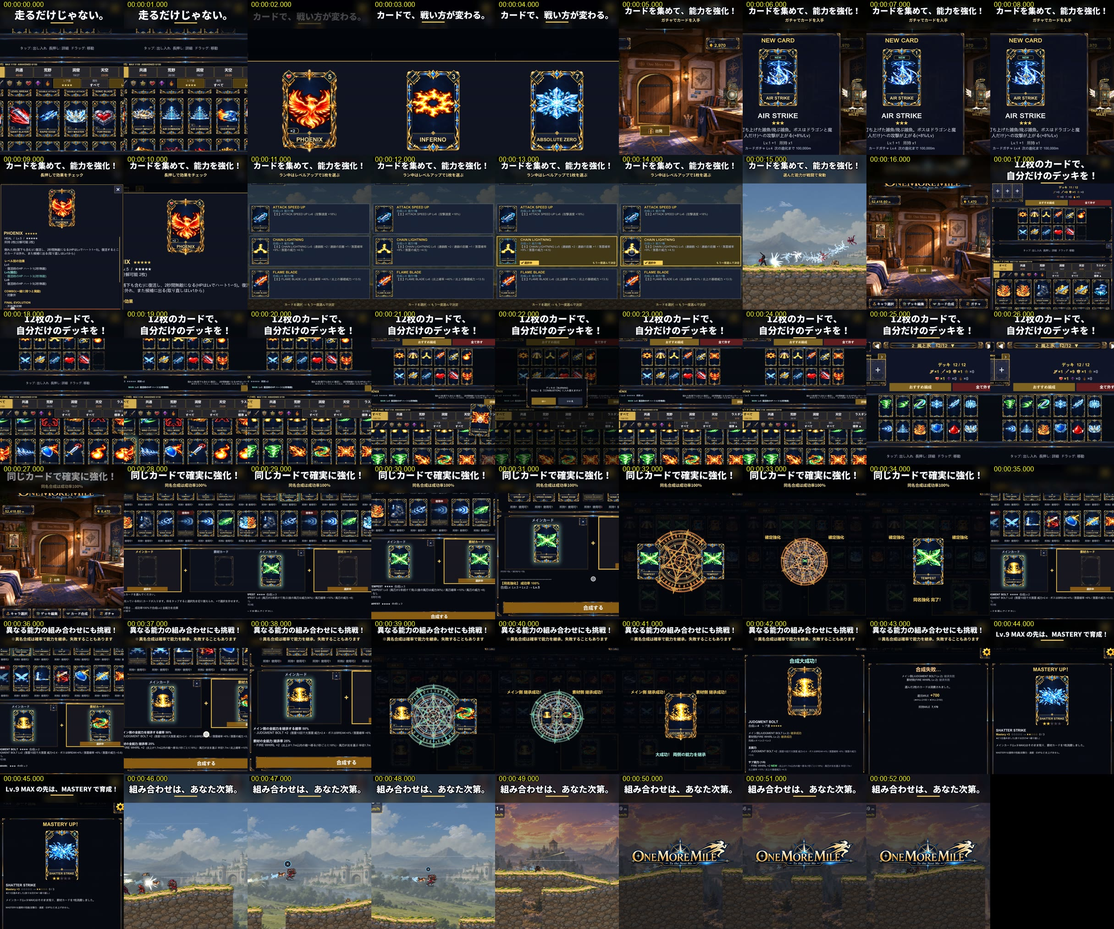
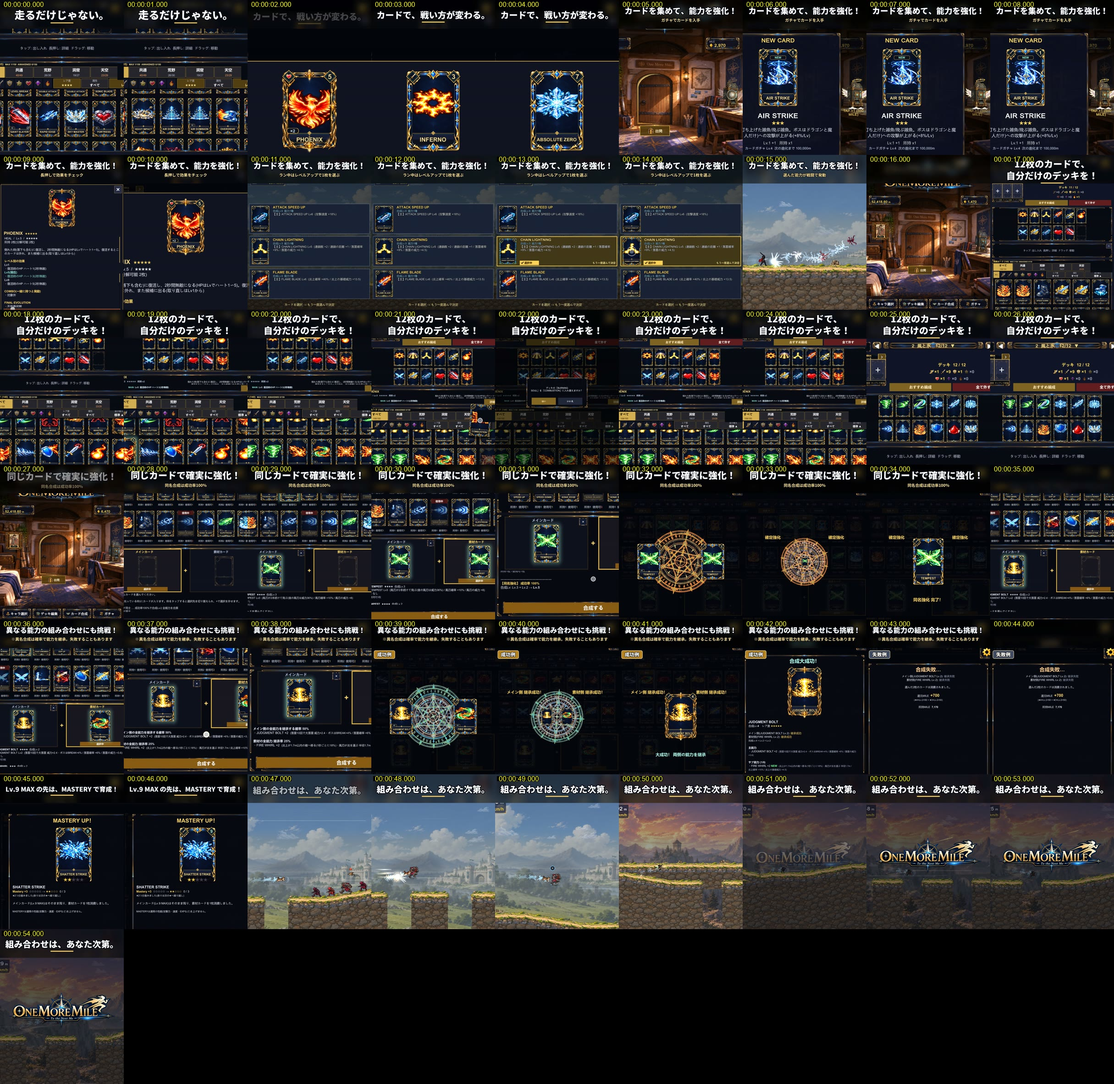
カード紹介動画の最終調整: 成功例/失敗例の札・ラスダンのタブを隠す・MASTERY を長く + 次の APK の実機確認リスト
- cardpromo.py: 結果の場面の札(badge)と、ゲームの画面の一部を近くの背景色で塗る切り抜き(masks、塗り始める秒つき)
- 「ラスダン 0/15」のタブはデッキ編集が写る場面だけ塗る(ゲーム本体の UI は不変)
- MASTERY 1.8 → 2.7秒、失敗例 1.4 → 1.8秒(全体 54.5秒)
- Docs/NextApk_DeviceCheck.md: カード合成の説明欄/結果欄のスクロール修正を次の製品版 APK で実機確認

diff --git a/Docs/XPromo_Cards_2026-11-09/make_edl.py b/Docs/XPromo_Cards_2026-11-09/make_edl.py
@@ -45,9 +45,9 @@ cuts = [
     cut("cp_fuse_same", 7.65, 8, v(1.1, .5, .45), v(1.0, .5, .5), "合成する → 演出 → 同名強化 完了! TEMPEST Lv.5"),
     cut("cp_fuse_cross", 3.95, 8, v(1.3, .5, .62, to={"zoom": 1.6, "cx": .31, "cy": .86}, move_from=.3, move_to=.75), v(1.25, .62, .50, to={"zoom": 1.55, "cx": .80, "cy": .62}, move_from=.3, move_to=.75),
         "異名: JUDGMENT BOLT + FIRE WHIRL → 説明欄をスクロール →【異名合成】結果は抽選 / メイン側 50% / 素材 25%", id="cross"),
-    cut("cp_fuse_cross", 8.25, 8, v(1.1, .5, .45), v(1.0, .5, .5), "合成する → メイン側/素材側 継承成功 → 合成大成功!(撮影では結果を指定。README の注)"),
-    cut("cp_fuse_fail", 11.15, 3, v(1.1, .5, .40), v(1.0, .5, .45), "異名の失敗の例: 両方とも継承失敗 → 2枚は消費、MILE を還元"),
-    cut("cp_mastery", 10.25, 4, v(1.1, .5, .40), v(1.0, .5, .45), "Lv.9 MAX の SHATTER STRIKE に同じカード → MASTERY +3(★★☆☆☆)", id="mastery"),
+    cut("cp_fuse_cross", 8.25, 8, v(1.1, .5, .45), v(1.0, .5, .5), "合成する → メイン側/素材側 継承成功 → 合成大成功!(撮影では結果を指定。README の注)", badge=["成功例", "ok"]),
+    cut("cp_fuse_fail", 11.05, 4, v(1.1, .5, .40), v(1.0, .5, .45), "異名の失敗の例: 両方とも継承失敗 → 2枚は消費、MILE を還元", badge=["失敗例", "ng"]),
+    cut("cp_mastery", 9.70, 6, v(1.2, .42, .40), v(1.15, .5, .45), "Lv.9 MAX の SHATTER STRIKE に同じカード → MASTERY +3(★★☆☆☆)", id="mastery"),
 ]
 battle = [
     cut(ARC + "/play/raw/pv_luka", 7.50, 4, v(1.4, .42, .40), v(1.4, .42, .40), "ルカ: 敵の群れを突き抜ける(雷の連鎖)", id="battle"),
@@ -83,6 +83,11 @@ edl = {
     "logo": "C:/GameProject/2ndAction/Unity/2ndAction/Assets/Art/UI/TitleLogoV2.png",
     "loudness": -14, "tp": -2.0, "se_gain": 1.0,
     # ホームの入口のタップ(撮影ではボタンの位置を記録できないので、画面の絵から決めた位置)
+    # 「ラスダン」のタブ(隠し要素の存在が分かる)は、その場所だけ近くの背景の色で塗る(ゲーム本体の UI は変えない)。
+    #   [x0, y0, x1, y1, 色を取る所 sx0, sy0, sx1, sy1](撮影の画面の割合)
+    #   9番目 = 塗り始める素材の秒(cp_deck はホームから開くので、デッキ編集が出る 1.22 秒から)
+    "masks": {"x45": {s: [[0.810, 0.598, 0.990, 0.666, 0.86, 0.590, 0.97, 0.597, t0]] for s, t0 in (("cp_cards", 0.0), ("cp_deck", 1.22))},
+              "x169": {s: [[0.406, 0.501, 0.490, 0.558, 0.489, 0.512, 0.501, 0.550, t0]] for s, t0 in (("cp_cards", 0.0), ("cp_deck", 1.22))}},
     "tapfix": {"x45": {"home_deck": [0.39, 0.87], "home_fusion": [0.62, 0.87]},
                "x169": {"home_deck": [0.14, 0.585], "home_fusion": [0.92, 0.756]}},
     "bgm": [{"file": "C:/GameProject/2ndAction/Unity/2ndAction/Assets/Audio/Placeholder/Bgm/bgm_sky_middle_n.wav",

diff --git a/Tools/xpromo/cardpromo.py b/Tools/xpromo/cardpromo.py
@@ -177,6 +177,7 @@ def render_cut(job):
     raw = edl["raw"][lay]
     taps = load_taps(os.path.join(raw, "taps.tsv"))
     fix = {k: v for k, v in edl.get("tapfix", {}).get(lay, {}).items()}
+    masks = edl.get("masks", {}).get(lay, {})
     fw, fh = W, H - band
     c = dict(edl["cuts"][ci])
     c["in"] = c.get(lay, {}).get("in", c["in"])  # 4:5 と 16:9 で撮影の開始秒が違う場面(ガチャの抽選など)
@@ -195,7 +196,12 @@ def render_cut(job):
     for k, fr in enumerate(frames(src, c["in"], n, sw, sh)):
         u = k / max(1, n - 1)
         v, o = view_at(c, lay, u)
+        for m in masks.get(c["shot"], []):
+            if len(m) < 9 or c["in"] + k / FPS >= m[8]:  # 9番目 = 塗り始める素材の秒(その画面が出てから)
+                fr = apply_mask(fr, sw, sh, m)
         canvas = compose(fr, sw, sh, W, H, band, fw, fh, v, o)
+        if c.get("badge"):
+            draw_badge(canvas, c["badge"], band, W / 1080.0, min(1.0, k / 9.0))
         if ev:
             cw, ch, x0, y0, ox, oy, s = canvas.info["map"]
             to_out = lambda nx, ny: (ox + (nx * sw - x0) * s, oy + (ny * sh - y0) * s)
@@ -250,6 +256,30 @@ def render_video(edl_path, edl, lay, out_path, audio_path, preview=1.0, only=Non
     cmd += ["-c:v", "copy", "-movflags", "+faststart", out_path]
     if subprocess.run(cmd).returncode != 0:
         sys.exit("concat failed")
+
+
+def apply_mask(fr, sw, sh, m):
+    """ゲームの画面の一部(隠したい表示)を、すぐ下の背景の色で塗る。m = [x0,y0,x1,y1, 色を取る所 sx0,sy0,sx1,sy1](割合)"""
+    x0, y0, x1, y1 = int(m[0] * sw), int(m[1] * sh), int(m[2] * sw), int(m[3] * sh)
+    a = np.asarray(fr.crop((int(m[4] * sw), int(m[5] * sh), int(m[6] * sw), int(m[7] * sh))))
+    col = tuple(int(x) for x in np.median(a.reshape(-1, 3), axis=0))
+    fr = fr.copy()
+    ImageDraw.Draw(fr).rectangle([x0, y0, x1, y1], fill=col)
+    return fr
+
+
+def draw_badge(canvas, badge, band, scale, a=1.0):
+    """結果の場面に「成功例」「失敗例」の札(ゲームの画面の左上、編集で足した表示)"""
+    text, kind = badge if isinstance(badge, list) else (badge, "ok")
+    d = ImageDraw.Draw(canvas, "RGBA")
+    f = font(int(42 * scale), "Black")
+    bb = d.textbbox((0, 0), text, font=f, stroke_width=3)
+    pw, ph = 26 * scale, 12 * scale
+    x, y = 22 * scale, band + 20 * scale
+    fill = (196, 140, 36, int(235 * a)) if kind == "ok" else (70, 82, 110, int(235 * a))
+    d.rounded_rectangle([x, y, x + bb[2] - bb[0] + pw * 2, y + bb[3] - bb[1] + ph * 2], radius=int(14 * scale), fill=fill,
+                        outline=(255, 236, 180, int(255 * a)), width=max(2, int(3 * scale)))
+    d.text((x + pw - bb[0], y + ph - bb[1]), text, font=f, fill=(255, 255, 255, int(255 * a)), stroke_width=3, stroke_fill=(20, 16, 10, int(255 * a)))
 
 
 def compose(fr, sw, sh, W, H, band, fw, fh, v, o):

diff --git a/Docs/XPromo_Cards_2026-11-09/README.md b/Docs/XPromo_Cards_2026-11-09/README.md
@@ -1,4 +1,17 @@
-# X 投稿用 カードシステム紹介動画(2026-11-09)
+# X 投稿用 カードシステム紹介動画(2026-11-09、最終調整 2026-11-10)
+
+## 最終調整(マスター/エステルの確認を受けて)
+1. 異名合成の大成功/失敗は撮影用の結果指定のまま(どちらも実際に起こり得る結果)。
+   - 結果の場面の左上に「成功例」「失敗例」の札を出した。継承確率の注意書き(字幕の小さい字)はそのまま。
+2. 前回 PV の戦闘映像の再利用はそのまま(実際のカードの能力が見える場面を優先)。
+3. PHOENIX ★5 はそのまま。
+4. 「ラスダン 0/15」のタブを隠した。デッキ編集の一覧が写る場面(冒頭の一覧・効果の確認・デッキ編集)で、そのタブの場所だけを近くの背景の色で塗った。
+   - 編集の切り抜きだけで、ゲーム本体の UI は変えていない。ホーム画面には塗らない(デッキ編集が出てから)。
+   - ドラッグで一覧の端から端まで動かす場面があり、寄せだけでは隠しきれないため、この形にした。
+5. MASTERY の場面: 画面で「MASTERY UP!」、カードの Lv「9」、「Mastery +3 ☆☆☆☆☆ → ★★☆☆☆」、「メインカード(Lv.9 MAX)はそのまま残り」まで読める。
+   - 1.8秒では字幕と合わせて読み切りにくいので、2.7秒に延ばして少し寄せた。
+   - あわせて「失敗例」も 1.4 → 1.8 秒。全体 53.2 → 54.5 秒。
+6. カード合成の説明欄・結果欄のスクロール修正は、次の製品版 APK の実機確認の項目として [../NextApk_DeviceCheck.md](../NextApk_DeviceCheck.md) に記録した。
 
 目的: 戦闘だけでなく「カードを集めて育て、自分好みの構成で冒険できる」ことを、初心者にも分かるように見せる。
 テスター募集・参加方法・Google Play への誘導は入れていない(純粋なゲーム紹介)。
@@ -6,8 +19,8 @@
 ## 完成ファイル(`video/`、mp4 は git に入れない)
 | ファイル | 大きさ | 内容 |
 |---|---|---|
-| `video/omm_cards_x45_ja.mp4` | 1080×1350(4:5)・53.2秒・60fps・H.264 + AAC 192k | **X 投稿の本命** |
-| `video/omm_cards_x169_ja.mp4` | 1920×1080(16:9)・53.2秒・60fps・H.264 + AAC 192k | 横画面版 |
+| `video/omm_cards_x45_ja.mp4` | 1080×1350(4:5)・54.5秒・60fps・H.264 + AAC 192k | **X 投稿の本命** |
+| `video/omm_cards_x169_ja.mp4` | 1920×1080(16:9)・54.5秒・60fps・H.264 + AAC 192k | 横画面版 |
 | `contact_x45.jpg` / `contact_x169.jpg` | 1秒ごとのコマの一覧 | 確認用の映像一覧 |
 
 - 音の大きさ: -14 LUFS(SNS の標準)、ピークは -1.0 dBTP 以下。
@@ -40,12 +53,12 @@
 | 28.18–31.82 | メイン TEMPEST Lv3 → 素材 TEMPEST Lv2 → 説明欄をスクロール →「【同名強化】成功率 100%」「Lv.3 + Lv.2 → Lv.5」 | 〃 | cp_fuse_same / 2.45 |
 | 31.82–35.45 | 合成する → 演出 → 同名強化 完了! TEMPEST Lv.5 | 〃 | cp_fuse_same / 7.65 |
 | 35.45–39.09 | 異名: JUDGMENT BOLT + FIRE WHIRL → 説明欄をスクロール →「メイン側の全能力を継承する確率 50%」「素材の全能力 継承率 25%」(16:9 は「結果が抽選で決まります」「両側失敗: 完成カードなし・MILE を還元」も見える) | 異なる能力の組み合わせにも挑戦！(※異名合成は確率で能力を継承。失敗することもあります) | cp_fuse_cross / 3.95 |
-| 39.09–42.73 | 合成する → メイン側/素材側 継承成功 → 合成大成功! | 〃 | cp_fuse_cross / 8.25 |
-| 42.73–44.09 | 異名の失敗の例: 両方とも継承失敗 → 2枚は消費、700 MILE を還元 | 〃 | cp_fuse_fail / 11.15 |
-| 44.09–45.91 | Lv.9 MAX の SHATTER STRIKE に同じカード → MASTERY +3(★★☆☆☆) | Lv.9 MAX の先は、MASTERY で育成！ | cp_mastery / 10.25 |
-| 45.91–47.73 | ルカ: 敵の群れを突き抜ける(雷の連鎖) | 組み合わせは、あなた次第。 | 前回 PV の素材 play/pv_luka / 7.50 |
-| 47.73–49.09 | ルカ: 空中で捕まえて連撃(雷) | 〃 | 前回 PV の素材 play/pv_luka / 9.65 |
-| 49.09–53.18 | 二丁拳銃士の連続撃破 → 少しずつ暗くしてロゴ「ONE MORE MILE」 | 〃 | 前回 PV の素材 play/gunslinger / 7.40 |
+| 39.09–42.73 | 合成する → メイン側/素材側 継承成功 → 合成大成功!(左上に「成功例」の札) | 〃 | cp_fuse_cross / 8.25 |
+| 42.73–44.55 | 異名の失敗の例: 両方とも継承失敗 → 2枚は消費、700 MILE を還元(左上に「失敗例」の札) | 〃 | cp_fuse_fail / 11.05 |
+| 44.55–47.27 | Lv.9 MAX の SHATTER STRIKE に同じカード → MASTERY UP! +3(☆☆☆☆☆ → ★★☆☆☆)、「メインカード(Lv.9 MAX)はそのまま残り」 | Lv.9 MAX の先は、MASTERY で育成！ | cp_mastery / 9.70 |
+| 47.27–49.09 | ルカ: 敵の群れを突き抜ける(雷の連鎖) | 組み合わせは、あなた次第。 | 前回 PV の素材 play/pv_luka / 7.50 |
+| 49.09–50.45 | ルカ: 空中で捕まえて連撃(雷) | 〃 | 前回 PV の素材 play/pv_luka / 9.65 |
+| 50.45–54.55 | 二丁拳銃士の連続撃破 → 少しずつ暗くしてロゴ「ONE MORE MILE」 | 〃 | 前回 PV の素材 play/gunslinger / 7.40 |
 
 ## 合成の成功率を誤解させないために
 - 同名合成は画面の「【同名強化】成功率 100%」の行まで見せてから、字幕「同じカードで確実に強化！」。
@@ -105,7 +118,7 @@
 > 『ONE MORE MILE』のカードシステム、組み合わせはあなた次第。
 > #OneMoreMile #インディーゲーム #indiegame
 
-## 確認していただきたい点
+## 第1版で確認いただいた点(結果は上の「最終調整」)
 1. 異名合成の「合成大成功」と「失敗」は、撮影で結果を指定して撮った(確率と画面は製品のまま)。紹介動画として問題ないか。
 2. 冒頭と効果の確認に出る ★5 は PHOENIX(自然洞窟 50km で解禁)。ネタバレ扱いにするか。
 3. 「能力の発動」と締めの戦闘は、前回の PV の戦闘(同じ版・同じ考えのデッキ)を使った。今回撮った戦闘は撃破の間隔が空いて見栄えが弱かったため。

diff --git a/Docs/NextApk_DeviceCheck.md b/Docs/NextApk_DeviceCheck.md
@@ -1,0 +1,19 @@
+# 次の製品版 APK で実機確認する項目
+
+ここに書いた項目は、次の製品版 APK を作った時に実機(Android)で確かめる。確かめたら「結果」を書き、終わった項目は日付付きで下の「済み」へ移す。
+
+## 未確認
+### カード合成の説明欄・結果欄のスクロール(2026-11-09 修正、46e790b6)
+- 直した所: `Unity/2ndAction/Assets/Scripts/CardFusionUI.cs` の SyncScrollContent。
+  - 説明欄/結果欄の中身(Content)の高さが 0 のままで、文字だけがはみ出していた。
+  - そのため欄がスクロールできず、長い説明の下の行が読めなかった。
+- 確かめること(縦画面・横画面の両方):
+  1. 異なるカードを2枚選ぶ → 説明欄を指で上へ送れる。「【異名合成】結果は抽選」「メイン側の全能力を継承する確率 50%」「素材の全能力 継承率 25%」「両側失敗: 完成カードなし・MILE を還元」「実行すると、選んだ2枚は消費されます。」が最後まで読める。
+  2. 同じカードを2枚選ぶ → 「【同名強化】成功率 100%」の行まで送れる。
+  3. 合成の結果の欄(能力が多い合成の後)も最後の行まで送れる。
+  4. 短い説明の時は今までどおり動かない(見た目が変わっていない)。
+  5. マウスのホイール(Windows)・パッドの右スティックでも動く。
+- 結果: (未記入)
+
+## 済み
+(なし)
